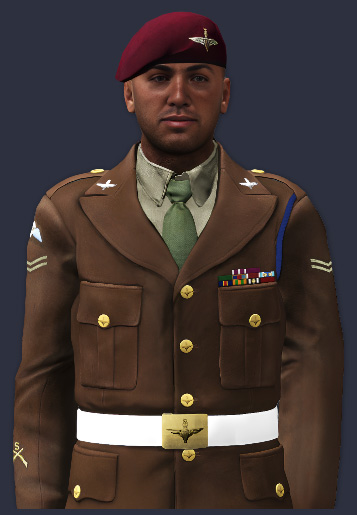
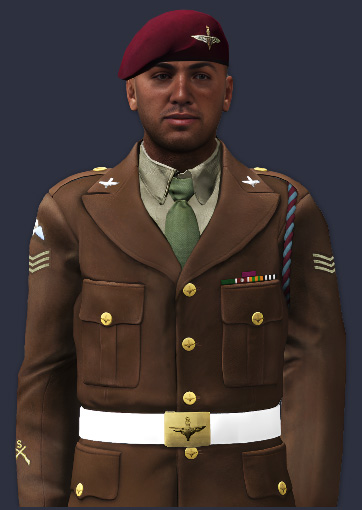
Add all lanyards and awards canvas position adjustment etc

diff --git a/assets/javascripts/discourse/uniform-data.js b/assets/javascripts/discourse/uniform-data.js
@@ -36,19 +36,43 @@ export const rankToImageMap = Object.fromEntries(
   ranks.map(rank => [rank.name, rank.imageKey])
 );
 
-export const lanyardGroups = [
-  { name: '1_Platoon_IC', imageKey: '/assets/images/lanyards/1_platoon_lanyard.png' },
-  { name: '1_Platoon_2IC', imageKey: '/assets/images/lanyards/1_platoon_lanyard.png' },
-  { name: '1-1_Section', imageKey: '/assets/images/lanyards/1_platoon_lanyard.png' },
-  { name: '1-2_Section', imageKey: '/assets/images/lanyards/1_platoon_lanyard.png' },
-  { name: '1-3_Section', imageKey: '/assets/images/lanyards/1_platoon_lanyard.png' },
-  { name: 'Fire_Support_Group_IC', imageKey: '/assets/images/lanyards/fsg_lanyard.png' },
-  { name: 'Fire_Support_Group_2IC', imageKey: '/assets/images/lanyards/fsg_lanyard.png' },
-  { name: 'Fire_Support_Group', imageKey: '/assets/images/lanyards/fsg_lanyard.png' },
-  { name: '16CSMR_IC', imageKey: '/assets/images/lanyards/16csmr_lanyard.png' },
-  { name: '16CSMR_2IC', imageKey: '/assets/images/lanyards/16csmr_lanyard.png' },
-  { name: '16CSMR', imageKey: '/assets/images/lanyards/16csmr_lanyard.png' }
-];
+const lanyardGroupsConfig = {
+  '/assets/images/lanyards/hq_lanyard.png': [
+    'Coy_IC', 'Coy_2IC', 'Coy_Sergeant_Major'
+  ],
+  '/assets/images/lanyards/1_platoon_lanyard.png': [
+    '1_Platoon_IC', '1_Platoon_2IC', '1-1_Section_IC', '1-1_Section_2IC', '1-1_Section',
+    '1-2_Section_IC', '1-2_Section_2IC', '1-2_Section', '1-3_Section_IC', '1-3_Section_2IC', '1-3_Section'
+  ],
+  '/assets/images/lanyards/2_platoon_lanyard.png': [
+    '2_Platoon_IC', '2_Platoon_2IC', '2-1_Section_IC', '2-1_Section_2IC', '2-1_Section',
+    '2-2_Section_IC', '2-2_Section_2IC', '2-2_Section', '2-3_Section_IC', '2-3_Section_2IC', '2-3_Section'
+  ],
+  '/assets/images/lanyards/fire_support_group_lanyard.png': [
+    '3_Platoon_IC', '3_Platoon_2IC', '3-1_Section_IC', '3-1_Section_2IC', '3-1_Section',
+    '3-2_Section_IC', '3-2_Section_2IC', '3-2_Section', 'FSG_HQ_IC', 'FSG_HQ_2IC',
+    'Fire_Support_Group_IC', 'Fire_Support_Group_2IC', 'Fire_Support_Group'
+  ],
+  '/assets/images/lanyards/force_protection_lanyard.png': [
+    '4-1_Section_IC', '4-1_Section_2IC', '4-1_Section'
+  ],
+  '/assets/images/lanyards/13_air_assault_support_regiment_lanyard.png': [
+    '13AASR_IC', '13AASR_2IC', '13AASR'
+  ],
+  '/assets/images/lanyards/16_close_support_medical_regiment_lanyard.png': [
+    '16CSMR_IC', '16CSMR_2IC', '16CSMR'
+  ],
+  '/assets/images/lanyards/216_para_signals_lanyard.png': [
+    '216_Para_Signals_IC', '216_Para_Signals_2IC', '216_Para_Signals'
+  ],
+  '/assets/images/lanyards/fire_support_team_lanyard.png': [
+    'Fire_Support_Team_IC', 'Fire_Support_Team_2IC', 'Fire_Support_Team'
+  ]
+};
+
+export const lanyardGroups = Object.entries(lanyardGroupsConfig).flatMap(([imageKey, names]) =>
+  names.map(name => ({ name, imageKey }))
+);
 
 // Lanyard to Image Mapping
 export const lanyardToImageMap = Object.fromEntries(

diff --git a/README.md b/README.md
@@ -1,4 +1,13 @@
 # discourse-project-uniform
-This plugin shows a dynamically updating uniform for the 16AA member showing group membership lanyard, correct beret, rank, qualifications and awards.
+This plugin shows a dynamically updating uniform for the 16AA member showing group membership lanyard, correct beret, rank, qualifications, and awards.
 
 ![Showcase Image](./assets/showcase.jpg)
+
+## To-Do
+- [ ] Add Recruit graphics.
+- [ ] Add remaining ranks graphics.
+- [ ] Add remaining berets graphics.
+- [ ] Add remaining qualifications graphics.
+- [ ] Add curvature for awards canvas (maybe)
+- [ ] Royal Air Force Officers & Enlisted uniforms and caps/berets.
+- [ ] Implement tooltips with more detailed info and image for all dynamically added elements.
